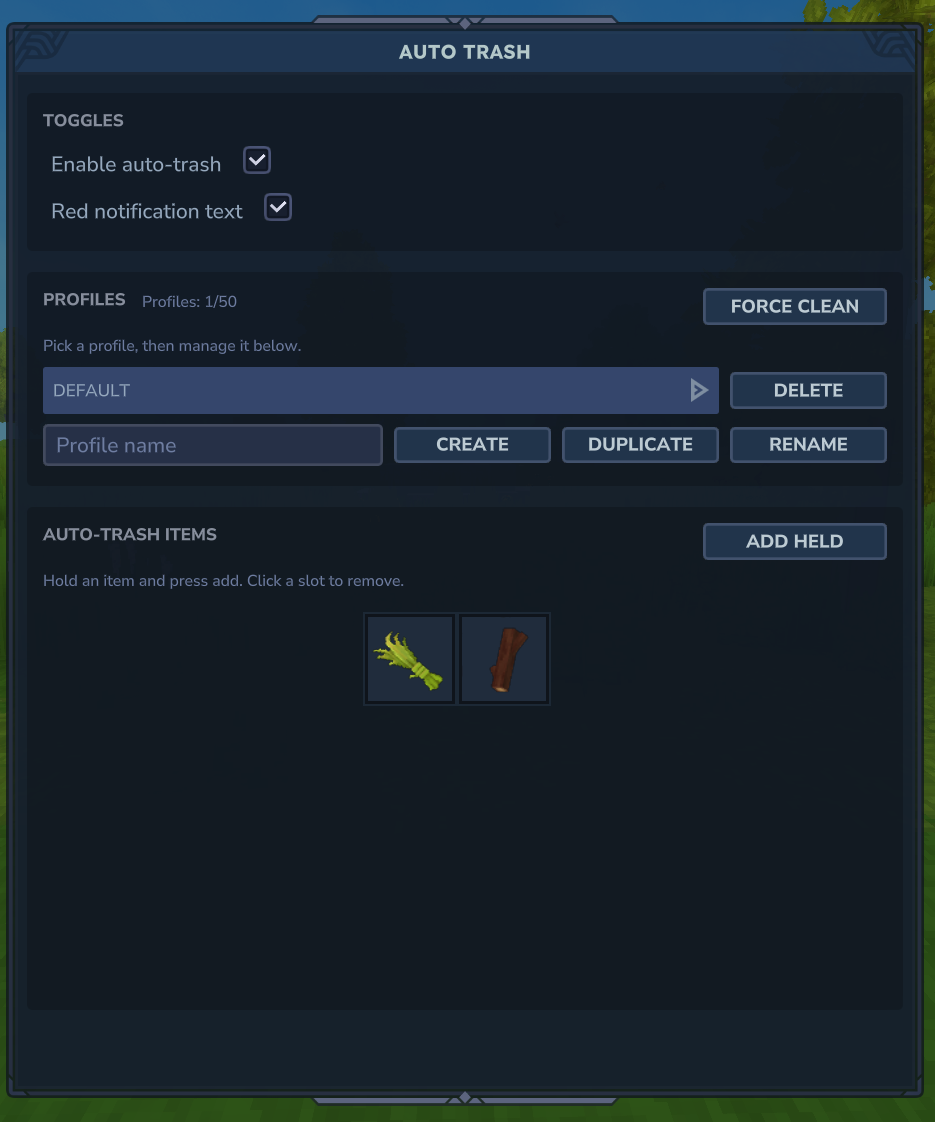
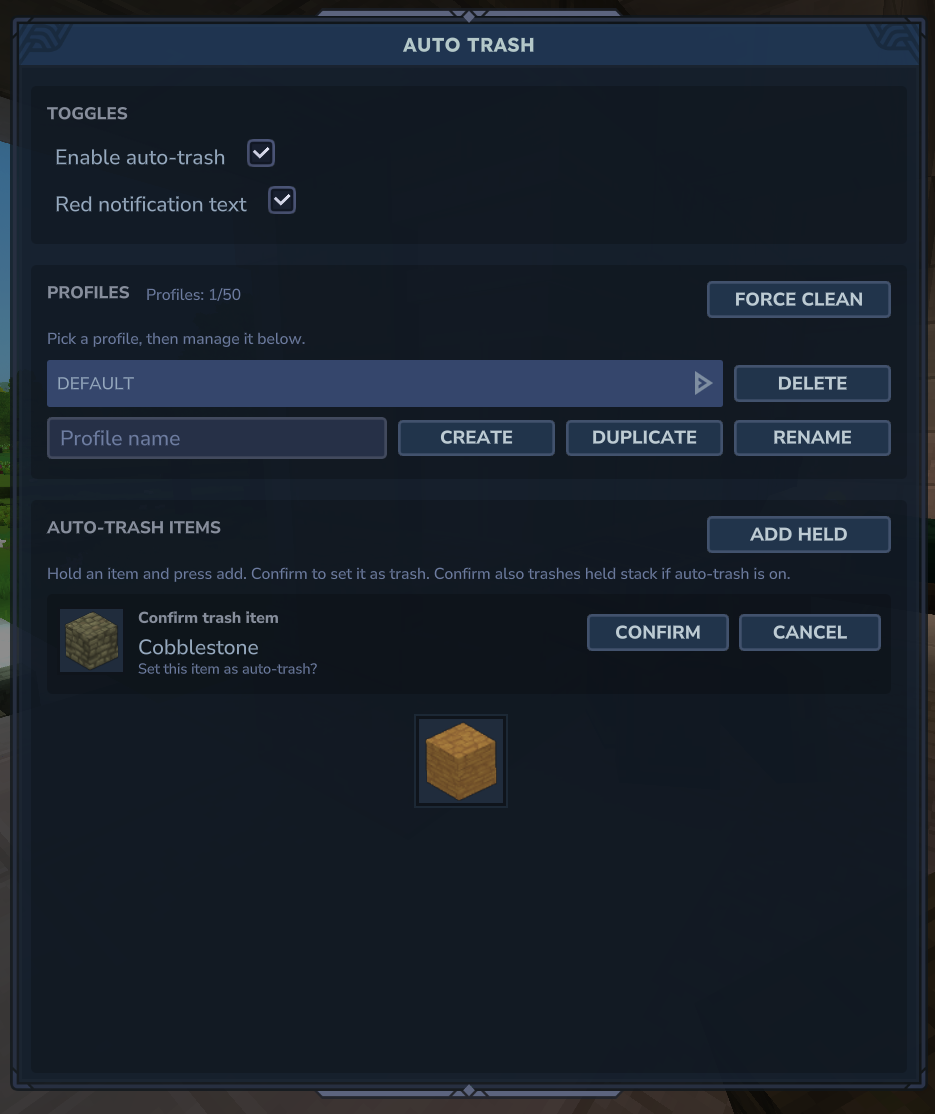
feat(release): prepare 1.0.6
- add in-menu trash add confirmation with item icon/name and confirm/cancel flow

- update AutoTrash config UI copy/layout and include refreshed preview image

- include CurseForge update-checker metadata in generated manifest

Changed region(s): [[0.0, 0.0, 1.0, 1.0], [0.3722, 0.5494, 0.5893, 0.7325]]

diff --git a/src/main/java/me/clutchy/hytale/autotrash/ui/AutoTrashConfigPage.java b/src/main/java/me/clutchy/hytale/autotrash/ui/AutoTrashConfigPage.java
@@ -37,6 +37,12 @@ public final class AutoTrashConfigPage extends InteractiveCustomUIPage<AutoTrash
 
     /** Cached settings component for the player. */
     private AutoTrashPlayerSettings playerSettings;
+    /** Pending item id awaiting confirmation in the UI. */
+    private String pendingItemId;
+    /** Pending item translation key for localized display in confirmation UI. */
+    private String pendingItemTranslationKey;
+    /** Pending item display name shown in confirmation UI. */
+    private String pendingItemName;
 
     /**
      * Creates the configuration page.
@@ -72,6 +78,7 @@ public final class AutoTrashConfigPage extends InteractiveCustomUIPage<AutoTrash
         commandBuilder.set("#EnabledRow #CheckBox.Value", this.playerSettings.isEnabled());
         commandBuilder.set("#NotifyRow #CheckBox.Value", this.playerSettings.isNotify());
         buildFilterList(commandBuilder, profile.getExactItems());
+        buildPendingAddConfirmation(commandBuilder);
 
         eventBuilder.addEventBinding(CustomUIEventBindingType.ValueChanged, "#ProfileDropdown",
                 EventData.of(PageEventData.KEY_ACTION, PageEventData.ACTION_SWITCH_PROFILE).append(PageEventData.KEY_PROFILE, "#ProfileDropdown.Value"), false);
@@ -90,6 +97,10 @@ public final class AutoTrashConfigPage extends InteractiveCustomUIPage<AutoTrash
         eventBuilder.addEventBinding(CustomUIEventBindingType.ValueChanged, "#NotifyRow #CheckBox",
                 EventData.of(PageEventData.KEY_ACTION, PageEventData.ACTION_TOGGLE_NOTIFY).append(PageEventData.KEY_VALUE, "#NotifyRow #CheckBox.Value"), false);
         eventBuilder.addEventBinding(CustomUIEventBindingType.Activating, "#ItemAddButton", EventData.of(PageEventData.KEY_ACTION, PageEventData.ACTION_ADD_EXACT));
+        eventBuilder.addEventBinding(CustomUIEventBindingType.Activating, "#ItemConfirmButton",
+                EventData.of(PageEventData.KEY_ACTION, PageEventData.ACTION_CONFIRM_ADD_EXACT), false);
+        eventBuilder.addEventBinding(CustomUIEventBindingType.Activating, "#ItemCancelButton",
+                EventData.of(PageEventData.KEY_ACTION, PageEventData.ACTION_CANCEL_ADD_EXACT), false);
 
         rebuildListBindings(eventBuilder, profile);
     }
@@ -125,6 +136,9 @@ public final class AutoTrashConfigPage extends InteractiveCustomUIPage<AutoTrash
                     return;
                 }
                 changed = this.playerSettings.activateProfile(data.profileName);
+                if (changed) {
+                    clearPendingAdd();
+                }
             }
             case PageEventData.ACTION_ADD_PROFILE -> {
                 AutoTrashPlayerSettings.ProfileActionResult result = this.playerSettings.createProfile(data.profileName);
@@ -168,22 +182,48 @@ public final class AutoTrashConfigPage extends InteractiveCustomUIPage<AutoTrash
                 ItemStack held = player.getInventory().getItemInHand();
                 if (held == null || ItemStack.isEmpty(held)) {
                     player.sendMessage(Message.raw("Hold an item to add it to the auto-trash list."));
+                    clearPendingAdd();
                     rebuild();
                     return;
                 }
-                String itemId = held.getItemId();
-                String[] current = profile.getExactItems();
-                String[] updated = updateArray(current, true, itemId);
-                if (updated != current) {
-                    profile.setExactItems(updated);
-                    changed = true;
+                this.pendingItemId = held.getItemId();
+                this.pendingItemTranslationKey = resolveItemTranslationKey(held);
+                this.pendingItemName = formatItemName(this.pendingItemId);
+                rebuild();
+                return;
+            }
+            case PageEventData.ACTION_CONFIRM_ADD_EXACT -> {
+                if (this.pendingItemId == null || this.pendingItemId.isBlank()) {
+                    player.sendMessage(Message.raw("Hold an item and press add first."));
+                    rebuild();
+                    return;
                 }
-                if (this.playerSettings.isEnabled()) {
+
+                String[] current = profile.getExactItems();
+                String[] updated = updateArray(current, true, this.pendingItemId);
+                if (updated == current) {
+                    player.sendMessage(Message.raw("That item is already in this profile."));
+                    clearPendingAdd();
+                    rebuild();
+                    return;
+                }
+
+                profile.setExactItems(updated);
+                changed = true;
+
+                ItemStack held = player.getInventory().getItemInHand();
+                if (this.playerSettings.isEnabled() && held != null && !ItemStack.isEmpty(held) && this.pendingItemId.equals(held.getItemId())) {
                     player.getInventory().getHotbar().removeItemStackFromSlot(player.getInventory().getActiveHotbarSlot());
                     if (this.playerSettings.isNotify()) {
                         sendTrashNotification(player, held);
                     }
                 }
+                clearPendingAdd();
+            }
+            case PageEventData.ACTION_CANCEL_ADD_EXACT -> {
+                clearPendingAdd();
+                rebuild();
+                return;
             }
             case PageEventData.ACTION_REMOVE_EXACT -> {
                 String itemId = data.itemId;
@@ -206,6 +246,22 @@ public final class AutoTrashConfigPage extends InteractiveCustomUIPage<AutoTrash
         if (changed) {
             rebuild();
         }
+    }
+
+    private void buildPendingAddConfirmation(@NonNullDecl UICommandBuilder commandBuilder) {
+        boolean hasPending = this.pendingItemId != null && !this.pendingItemId.isBlank();
+        commandBuilder.set("#ItemConfirm.Visible", hasPending);
+        if (!hasPending) {
+            return;
+        }
+
+        commandBuilder.set("#ItemConfirmSlot.ItemId", this.pendingItemId);
+        if (this.pendingItemTranslationKey != null && !this.pendingItemTranslationKey.isBlank()) {
+            commandBuilder.set("#ItemConfirmName.Text", Message.translation(this.pendingItemTranslationKey));
+            return;
+        }
+
+        commandBuilder.set("#ItemConfirmName.Text", this.pendingItemName);
     }
 
     /**
@@ -361,6 +417,60 @@ public final class AutoTrashConfigPage extends InteractiveCustomUIPage<AutoTrash
         return new ArrayList<>(Arrays.asList(values));
     }
 
+    private void clearPendingAdd() {
+        this.pendingItemId = null;
+        this.pendingItemTranslationKey = null;
+        this.pendingItemName = null;
+    }
+
+    private static String resolveItemTranslationKey(@NonNullDecl ItemStack itemStack) {
+        if (itemStack.getItem() == null) {
+            return null;
+        }
+        String translationKey = itemStack.getItem().getTranslationKey();
+        if (translationKey == null || translationKey.isBlank()) {
+            return null;
+        }
+        return translationKey;
+    }
+
+    private static String formatItemName(@NonNullDecl String itemId) {
+        String trimmed = itemId.trim();
+        if (trimmed.isEmpty()) {
+            return "Unknown item";
+        }
+
+        int namespaceIndex = trimmed.lastIndexOf(':');
+        if (namespaceIndex >= 0 && namespaceIndex + 1 < trimmed.length()) {
+            trimmed = trimmed.substring(namespaceIndex + 1);
+        }
+
+        trimmed = trimmed.replace('_', ' ').replace('-', ' ').trim();
+        if (trimmed.isEmpty()) {
+            return itemId;
+        }
+
+        String[] words = trimmed.split("\\s+");
+        StringBuilder builder = new StringBuilder();
+        for (String word : words) {
+            if (word.isEmpty()) {
+                continue;
+            }
+            if (!builder.isEmpty()) {
+                builder.append(' ');
+            }
+            builder.append(Character.toUpperCase(word.charAt(0)));
+            if (word.length() > 1) {
+                builder.append(word.substring(1).toLowerCase());
+            }
+        }
+
+        if (!builder.isEmpty()) {
+            return builder.toString();
+        }
+        return itemId;
+    }
+
     /**
      * Event payload for the UI page.
      */
@@ -399,6 +509,14 @@ public final class AutoTrashConfigPage extends InteractiveCustomUIPage<AutoTrash
          * Action id for adding an exact item.
          */
         public static final String ACTION_ADD_EXACT = "AddExact";
+        /**
+         * Action id for confirming an exact item add.
+         */
+        public static final String ACTION_CONFIRM_ADD_EXACT = "ConfirmAddExact";
+        /**
+         * Action id for cancelling an exact item add.
+         */
+        public static final String ACTION_CANCEL_ADD_EXACT = "CancelAddExact";
         /**
          * Action id for removing an exact item.
          */

diff --git a/docs/CHANGELOG.md b/docs/CHANGELOG.md
@@ -1,5 +1,9 @@
 # Changelog
 
+## 1.0.6 - 2026-02-17
+- Add in-menu confirmation for adding held items to auto-trash, with item icon/name preview, explicit confirm/cancel actions, and updated UI copy/layout for the confirmation row.
+- Include CurseForge update-checker metadata in the generated `manifest.json`.
+
 ## 1.0.5 - 2026-02-17
 - Bump manifest `ServerVersion` to `2026.02.17-255364b8e`.
 - Update Gradle manifest generation so `manifest.json` is reliably produced and packaged in the plugin JAR.
